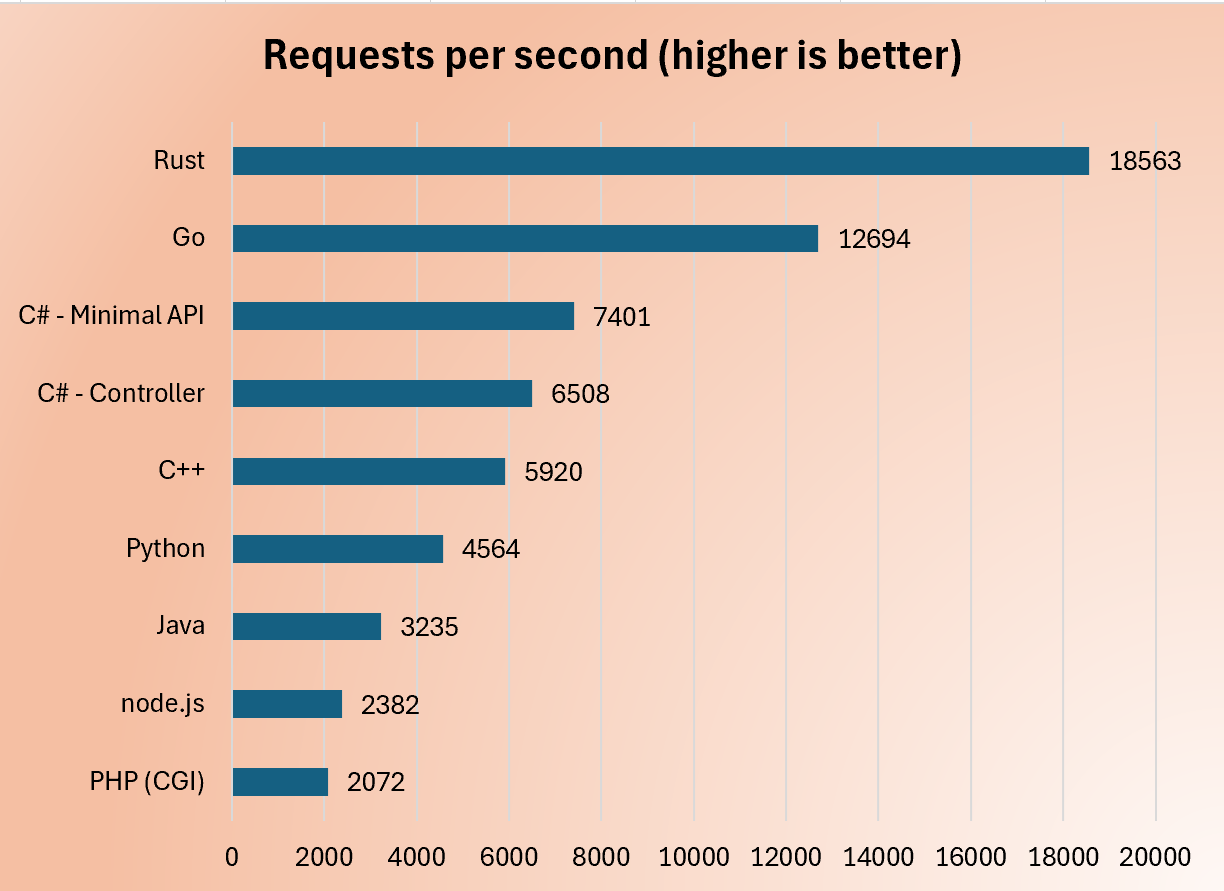
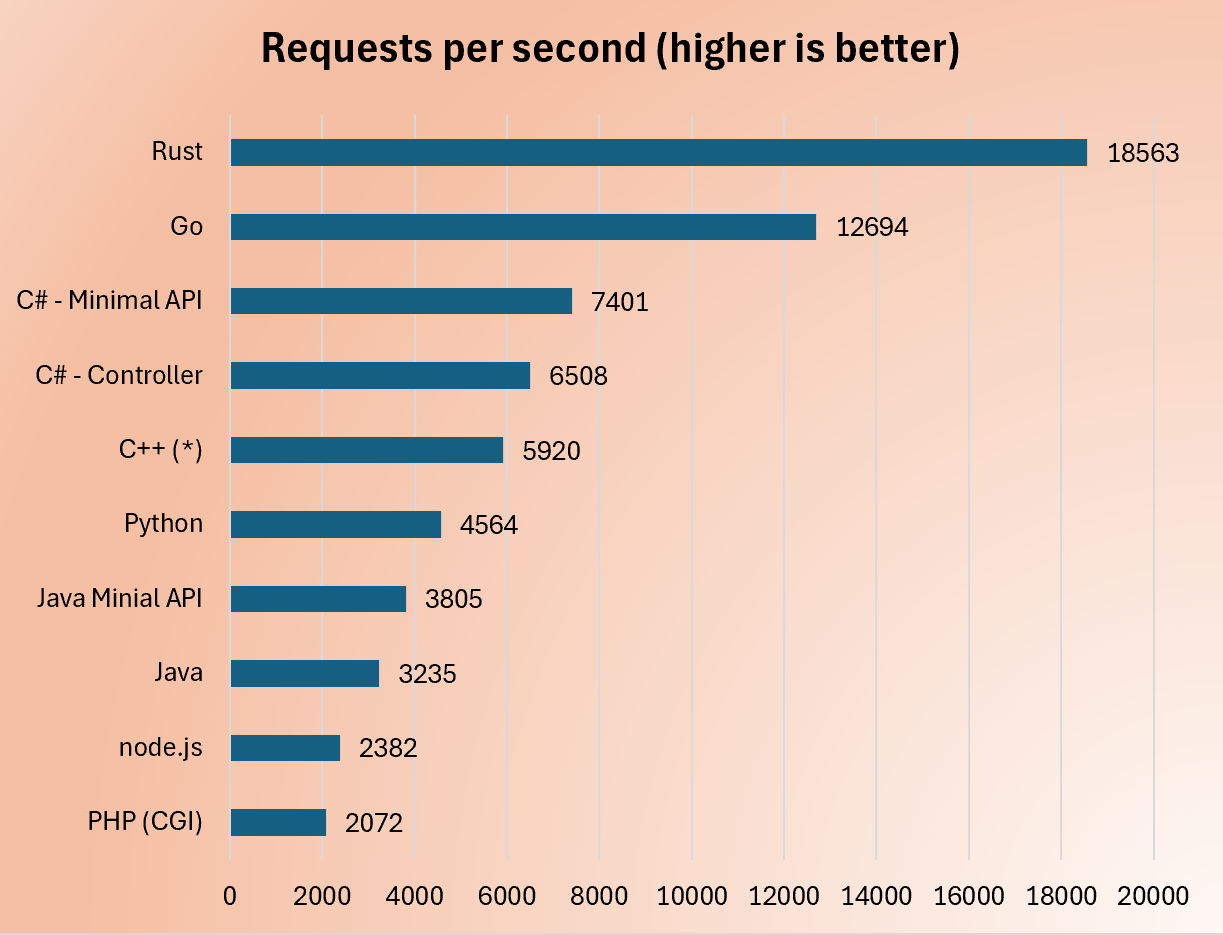
Add java minimal API

diff --git a/javamini/src/main/java/javamini/App.java b/javamini/src/main/java/javamini/App.java
@@ -1,0 +1,189 @@
+package javamini;
+
+import com.fasterxml.jackson.databind.DeserializationFeature;
+import com.fasterxml.jackson.databind.ObjectMapper;
+import com.sun.net.httpserver.Headers;
+import com.sun.net.httpserver.HttpExchange;
+import com.sun.net.httpserver.HttpHandler;
+import com.sun.net.httpserver.HttpServer;
+
+import java.io.*;
+import java.net.InetSocketAddress;
+import java.nio.charset.StandardCharsets;
+import java.security.MessageDigest;
+import java.sql.*;
+import java.time.Duration;
+import java.util.*;
+
+public class App {
+    static class LoginRequest {
+        public String Username;
+        public String HashedPassword;
+    }
+    static class LoginResponse {
+        public boolean success;
+        public Long userId;
+        public String errorMessage;
+    }
+
+    static class DatabaseService implements AutoCloseable {
+        private final boolean readOnly;
+        private final String readUrl;
+        private final String writeUrl;
+
+        DatabaseService(String dbPath, boolean readOnly) throws Exception {
+            this.readOnly = readOnly;
+            String fileUri = dbPath.startsWith("file:") ? dbPath : ("file:" + dbPath);
+            String roUri = fileUri + (fileUri.contains("?") ? "&" : "?") + "mode=ro";
+            this.readUrl = "jdbc:sqlite:" + (readOnly ? roUri : fileUri);
+            this.writeUrl = "jdbc:sqlite:" + fileUri;
+
+            if (!readOnly) {
+                try (Connection c = DriverManager.getConnection(writeUrl)) {
+                    try (Statement s = c.createStatement()) {
+                        s.execute("PRAGMA journal_mode=WAL;");
+                        s.execute("PRAGMA synchronous=OFF;");
+                        s.execute("PRAGMA temp_store=MEMORY;");
+                        s.execute("PRAGMA mmap_size=134217728;");
+                        s.execute("PRAGMA busy_timeout=5000;");
+                        s.execute("CREATE TABLE IF NOT EXISTS user (id INTEGER PRIMARY KEY AUTOINCREMENT, mail TEXT NOT NULL UNIQUE, hashed_password TEXT NOT NULL)");
+                    }
+                }
+            }
+        }
+
+        Long getUser(String mail, String hashed) throws SQLException {
+            try (Connection c = DriverManager.getConnection(readUrl);
+                 PreparedStatement ps = c.prepareStatement("SELECT id FROM user WHERE mail = ? AND hashed_password = ?")) {
+                ps.setString(1, mail);
+                ps.setString(2, hashed);
+                try (ResultSet rs = ps.executeQuery()) {
+                    if (rs.next()) return rs.getLong(1);
+                }
+            }
+            return null;
+        }
+
+        int seed(int count) throws SQLException {
+            try (Connection c = DriverManager.getConnection(writeUrl)) {
+                c.setAutoCommit(false);
+                try (Statement s = c.createStatement()) {
+                    s.execute("DELETE FROM user");
+                }
+                try (PreparedStatement ps = c.prepareStatement("INSERT INTO user (mail, hashed_password) VALUES (?, ?)")) {
+                    for (int i = 1; i <= count; i++) {
+                        String email = "user" + i + "@example.com";
+                        String pwd = "password" + i;
+                        String hashed = sha256(pwd);
+                        ps.setString(1, email);
+                        ps.setString(2, hashed);
+                        ps.addBatch();
+                        if (i % 1000 == 0) ps.executeBatch();
+                    }
+                    ps.executeBatch();
+                }
+                c.commit();
+            }
+            return count;
+        }
+
+        @Override public void close() { /* nothing persistent to close */ }
+    }
+
+    static String sha256(String s) {
+        try {
+            MessageDigest md = MessageDigest.getInstance("SHA-256");
+            byte[] out = md.digest(s.getBytes(StandardCharsets.UTF_8));
+            StringBuilder sb = new StringBuilder();
+            for (byte b : out) sb.append(String.format("%02x", b));
+            return sb.toString();
+        } catch (Exception e) { throw new RuntimeException(e); }
+    }
+
+    static void sendJson(HttpExchange ex, int code, Object obj) throws IOException {
+        ObjectMapper om = new ObjectMapper();
+        byte[] body = om.writeValueAsBytes(obj);
+        Headers h = ex.getResponseHeaders();
+        h.set("Content-Type", "application/json");
+        ex.sendResponseHeaders(code, body.length);
+        try (OutputStream os = ex.getResponseBody()) { os.write(body); }
+    }
+
+    static void sendText(HttpExchange ex, int code, String text) throws IOException {
+        byte[] body = text.getBytes(StandardCharsets.UTF_8);
+        ex.getResponseHeaders().set("Content-Type", "text/plain; charset=utf-8");
+        ex.sendResponseHeaders(code, body.length);
+        try (OutputStream os = ex.getResponseBody()) { os.write(body); }
+    }
+
+    public static void main(String[] args) throws Exception {
+        String portStr = System.getenv().getOrDefault("PORT", "6000");
+        int port = Integer.parseInt(portStr);
+        String dbPath = System.getenv().getOrDefault("DB_PATH", "users.db");
+        boolean readOnly = Boolean.parseBoolean(System.getenv().getOrDefault("READ_ONLY_DB", System.getenv().getOrDefault("READ_ONLY", "false")));
+        int seedCount = Integer.parseInt(System.getenv().getOrDefault("SEED_USER_COUNT", "10000"));
+
+        DatabaseService db = new DatabaseService(dbPath, readOnly);
+        HttpServer server = HttpServer.create(new InetSocketAddress(port), 0);
+
+        server.createContext("/health", ex -> sendText(ex, 200, "UserTokenApi JavaMini server is running"));
+        server.createContext("/ready", ex -> {
+            try (Connection c = DriverManager.getConnection(readOnly ? db.readUrl : db.writeUrl);
+                 Statement s = c.createStatement();
+                 ResultSet rs = s.executeQuery("SELECT 1")) {
+                sendJson(ex, 200, Map.of("status", "ready"));
+            } catch (Exception e) {
+                sendJson(ex, 200, Map.of("status", "degraded", "error", e.getMessage()));
+            }
+        });
+        server.createContext("/api/auth/get-user-token", ex -> {
+                if (!"POST".equalsIgnoreCase(ex.getRequestMethod())) { sendText(ex, 405, "Method Not Allowed"); return; }
+                ObjectMapper om = new ObjectMapper().configure(DeserializationFeature.FAIL_ON_UNKNOWN_PROPERTIES, false);
+                try (InputStream is = ex.getRequestBody()) {
+                    LoginRequest req = om.readValue(is, LoginRequest.class);
+                    if (req == null || req.Username == null || req.HashedPassword == null) {
+                        LoginResponse resp = new LoginResponse();
+                        resp.success = false; resp.userId = null; resp.errorMessage = "Username and hashed password are required";
+                        sendJson(ex, 200, resp); return;
+                    }
+                    Long id = db.getUser(req.Username, req.HashedPassword);
+                    LoginResponse resp = new LoginResponse();
+                    if (id != null) { resp.success = true; resp.userId = id; resp.errorMessage = null; }
+                    else { resp.success = false; resp.userId = null; resp.errorMessage = "Invalid username or password"; }
+                    sendJson(ex, 200, resp);
+                } catch (Exception e) {
+                    LoginResponse resp = new LoginResponse();
+                    resp.success = false; resp.userId = null; resp.errorMessage = "An error occurred during authentication";
+                    sendJson(ex, 200, resp);
+                }
+            });
+        server.createContext("/api/auth/create-db", ex -> {
+                if (!"GET".equalsIgnoreCase(ex.getRequestMethod())) { sendText(ex, 405, "Method Not Allowed"); return; }
+                if (readOnly) { sendJson(ex, 403, Map.of("error", "Database opened in read-only mode")); return; }
+                long start = System.nanoTime();
+                try {
+                    int count = db.seed(seedCount);
+                    long durMs = Duration.ofNanos(System.nanoTime() - start).toMillis();
+                    sendText(ex, 200, "Successfully created " + count + " users in " + durMs + "ms");
+                } catch (Exception e) {
+                    sendJson(ex, 500, Map.of("error", "An error occurred while creating the database"));
+                }
+            });
+
+        server.setExecutor(java.util.concurrent.Executors.newFixedThreadPool(Runtime.getRuntime().availableProcessors()));
+        System.out.println("Starting JavaMini server on http://localhost:" + port + " using DB '" + dbPath + "' " + (readOnly ? "(read-only; seeding disabled)" : "(writable)"));
+        System.out.println("  GET  /health");
+        System.out.println("  GET  /ready");
+        System.out.println("  POST /api/auth/get-user-token");
+        System.out.println("  GET  /api/auth/create-db");
+
+        Runtime.getRuntime().addShutdownHook(new Thread(() -> {
+            System.out.println("Shutting down JavaMini...");
+            server.stop(0);
+            try { db.close(); } catch (Exception ignored) {}
+        }));
+
+        server.start();
+        try { while (true) { Thread.sleep(1_000_000L); } } catch (InterruptedException ignored) {}
+    }
+}

diff --git a/readme.md b/readme.md
@@ -2,7 +2,7 @@
 
 **August the 9th, 2025**
 
-This repository contains eight identical user authentication APIs implemented in different programming languages, along with comprehensive performance testing tools. The project demonstrates performance characteristics across C# .NET Core, Node.js, Rust, PHP, Python, Java, C++, and Go implementations.
+This repository contains eight identical user authentication APIs implemented in different programming languages, along with comprehensive performance testing tools. The project demonstrates performance characteristics across C# .NET Core, Node.js, Rust, PHP, Python, Java, C++, and Go implementations. Additionally, there are minimal variants for .NET and Java (javamini) to compare lean hosting models.
 
 # Context
 
@@ -21,15 +21,16 @@ Based on testing with 100,000 requests and 16 concurrent connections
 On an AMD Ryzen 7 2700X, 8 core, 16 logical threads - Windows 10 machine.
 
 ```
-Rust 18563 req/s
-Go 12694 req/s
-C# - Minimal API 7401 req/s
-C# - Controller 6508 req/s
-C++ 5920 req/s (see remarks below)
-Java 3235 req/s
-Python 4564 req/s
-Node.js 2382 req/s
 PHP (CGI) 2072 req/s
+Node.js 2382 req/s
+Java 3235 req/s
+Java Minimal API 3805 req/s
+Python 4564 req/s
+C++ (*) 5920 req/s
+C# - Controller 6508 req/s
+C# - Minimal API 7401 req/s
+Go 12694 req/s
+Rust 18563 req/s
 ```
 
 ![Performance Comparison Chart](illustration.png)
@@ -59,3 +60,20 @@ Python, node.js and PHP have all been tested with 16 concurrent client and Nginx
 ## 📝 License
 
 This project is for educational and benchmarking purposes.
+
+## 🔧 Quick Start (selected)
+
+### Java API
+```bash
+cd java
+mvn spring-boot:run
+# Runs on http://localhost:6000
+```
+
+### Java Minimal API (javamini)
+```bash
+cd javamini
+mvn -q -DskipTests package
+java -jar target/javamini-1.0.0-shaded.jar
+# Runs on http://localhost:6060
+```

diff --git a/javamini/README.md b/javamini/README.md
@@ -1,0 +1,29 @@
+# Java Minimal API (javamini)
+
+A minimal Java HTTP server mirroring the Go minimal API style for the UserTokenApi benchmark.
+
+## Features
+- com.sun.net.httpserver.HttpServer (JDK built-in)
+- SQLite via xerial sqlite-jdbc
+- JSON via Jackson
+- Endpoints: /health, /ready, /api/auth/get-user-token (POST), /api/auth/create-db (GET)
+- Env config: PORT (default 6000), DB_PATH (users.db), READ_ONLY_DB/READ_ONLY, SEED_USER_COUNT
+
+## Run
+```bash
+cd javamini
+mvn -q -e -DskipTests package
+java -jar target/javamini-1.0.0-shaded.jar
+# Or customize
+# PORT=6000 DB_PATH=users.db READ_ONLY_DB=false SEED_USER_COUNT=10000 java -jar target/javamini-1.0.0-shaded.jar
+```
+
+## API
+- GET /health
+- GET /ready
+- POST /api/auth/get-user-token
+  - body: { "Username": "user1@example.com", "HashedPassword": "<sha256>" }
+- GET /api/auth/create-db
+
+## Notes
+- Use READ_ONLY_DB=true to open the DB read-only and disable seeding.
